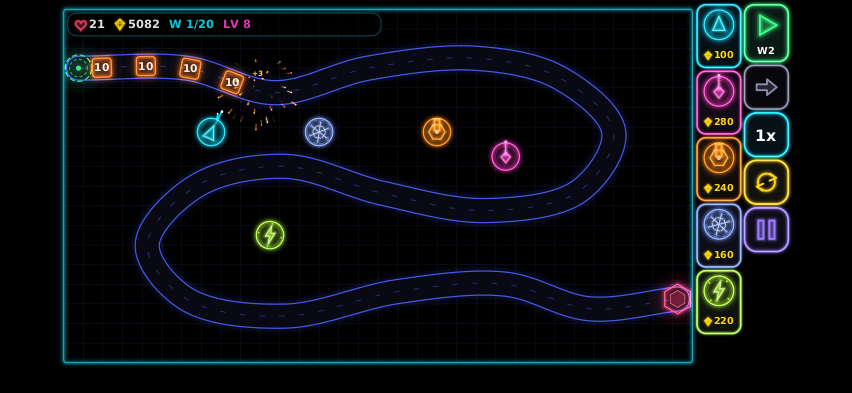
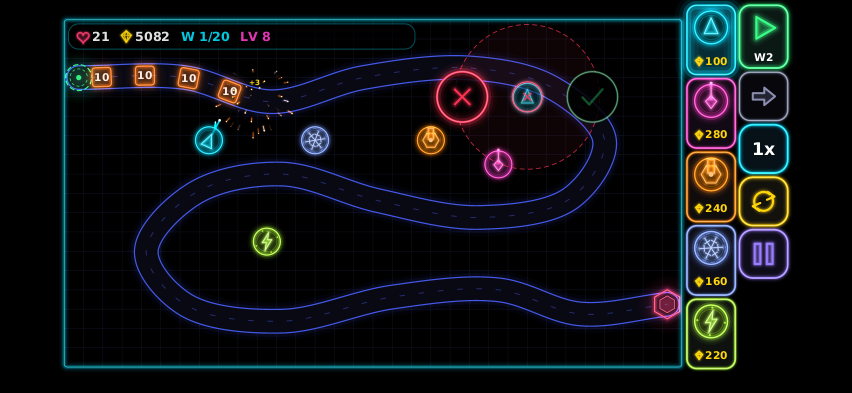
iPhone: Turm schwebt bis zur Bestätigung, Platz unten voll genutzt, Bedienelemente 10 % größer
- Touch: Turm schwebt nach Antippen/Ziehen, Verschieben per Ziehen, Haken baut, Kreuz verwirft
- Viewport: nur ein Drittel des unteren Sicherheitsrands (Home-Indikator) wird freigehalten
- Handy-UI-Einheit 0,78 → 0,86 und kompakte Kacheln 0,95 → 1,05 (je +10 %)
- Tests und Browser-Test an das Bestätigen angepasst, neuer Test touchPlacementFloatsUntilConfirmed

Claude-Session: https://claude.ai/code/session_01KZXZywoB6J5WESCdtRxJgn

Changed region(s): [[0.061, 0.0, 0.946, 0.9466], [0.5493, 0.3359, 0.6103, 0.458], [0.2746, 0.5496, 0.3357, 0.6718]]

diff --git a/core/src/main/java/neontd/scene/GameScene.java b/core/src/main/java/neontd/scene/GameScene.java
@@ -108,6 +108,8 @@ public final class GameScene extends Scene {
     private double dragX0;
     private double dragY0;
     private boolean mapPressed;
+    /** Touch: Der Turm schwebt an seiner Stelle und wird erst mit dem Haken fest gebaut. */
+    private boolean pending;
     private double sellArmed;
     private double time;
     private double celebrate;
@@ -508,6 +510,7 @@ public final class GameScene extends Scene {
     }
 
     private void cancelPlacing() {
+        pending = false;
         placing = null;
         dragging = false;
         cardDown = false;
@@ -779,6 +782,9 @@ public final class GameScene extends Scene {
 
         // Wellen-Banner über der Karte
         drawBanner(g);
+        if (pending && placing != null && ghostOnMap) {
+            drawConfirm(g);
+        }
 
         // --- HUD, Panel, Steuerung ---
         drawHud(g, u);
@@ -807,6 +813,38 @@ public final class GameScene extends Scene {
         }
     }
 
+    private static final double CONFIRM_DX = 62;
+
+    /** Mittelpunkt und Radius der Bestätigungsknöpfe (Bildschirm): {haken x, y, abbruch x, y, radius}. */
+    private double[] confirmButtons() {
+        double k = Math.max(app.vp.u, 1.05);
+        double r = 24 * k;
+        double sx = lay.screenX(ghostX, ghostY, world.height);
+        double sy = lay.screenY(ghostX, ghostY);
+        double dx = CONFIRM_DX * k;
+        double minX = lay.mapX + r;
+        double maxX = lay.mapX + lay.mapW - r;
+        double okX = Mathx.clamp(sx + dx, minX, maxX);
+        double noX = Mathx.clamp(sx - dx, minX, maxX);
+        if (okX - noX < r * 2.2) {
+            okX = Math.min(maxX, noX + r * 2.2);
+        }
+        double y = Mathx.clamp(sy, lay.mapY + r, lay.mapY + lay.mapH - r);
+        return new double[] {okX, y, noX, y, r};
+    }
+
+    private void drawConfirm(Gfx g) {
+        double[] c = confirmButtons();
+        double r = c[4];
+        int ok = ghostValid ? Theme.GREEN : Colors.withAlpha(Theme.GREEN, 0.3);
+        g.fillCircle(c[0], c[1], r, Colors.withAlpha(0x000000, 0.85));
+        Neon.circle(g, c[0], c[1], r, 2.2, ok, ghostValid ? 7 : 0);
+        Icons.draw(g, Icon.CHECK, c[0], c[1], r * 0.5, ok, ghostValid ? 4 : 0);
+        g.fillCircle(c[2], c[3], r, Colors.withAlpha(0x000000, 0.85));
+        Neon.circle(g, c[2], c[3], r, 2.2, Theme.RED, 7);
+        Icons.draw(g, Icon.CROSS, c[2], c[3], r * 0.45, Theme.RED, 4);
+    }
+
     private void drawGhost(Gfx g) {
         if (placing == null || !ghostOnMap) {
             return;
@@ -816,7 +854,8 @@ public final class GameScene extends Scene {
         g.save();
         g.alpha(ghostValid ? 0.85 : 0.55);
         int tint = ghostValid ? placing.color : Theme.RED;
-        TowerArt.drawIcon(g, placing, ghostX, ghostY, World.TOWER_RADIUS, time);
+        double bob = pending ? Math.sin(time * 4) * 1.6 : 0;
+        TowerArt.drawIcon(g, placing, ghostX, ghostY + bob, World.TOWER_RADIUS * (pending ? 1.06 : 1), time);
         g.restore();
         if (!ghostValid) {
             Neon.circle(g, ghostX, ghostY, World.TOWER_RADIUS + 3 + pulse * 2, 2.2, tint, 6);
@@ -1519,6 +1558,25 @@ public final class GameScene extends Scene {
             overlayUi.pointerDown(x, y);
             return;
         }
+        if (pending && placing != null && ghostOnMap) {
+            double[] c = confirmButtons();
+            if (Mathx.dist(x, y, c[0], c[1]) <= c[4] * 1.15) {
+                if (ghostValid) {
+                    placeTower(placing, ghostX, ghostY);
+                    placing = null;
+                    pending = false;
+                    ghostOnMap = false;
+                } else {
+                    deny(world.checkPlacement(ghostX, ghostY) == World.PlaceCheck.ON_PATH
+                            ? "Nicht auf der Gegnerspur" : "Hier kann nicht gebaut werden");
+                }
+                return;
+            }
+            if (Mathx.dist(x, y, c[2], c[3]) <= c[4] * 1.15) {
+                cancelPlacing();
+                return;
+            }
+        }
         if (selected != null) {
             for (Button b : panelButtons()) {
                 if (b.contains(x, y)) {
@@ -1546,7 +1604,8 @@ public final class GameScene extends Scene {
             double wx = toWorldX(x, y);
             double wy = toWorldY(x, y);
             if (placing != null) {
-                updateGhost(x, y, 0);
+                pending = false;
+                updateGhost(x, y, touch ? 56 * app.vp.u : 0);
                 return;
             }
             Tower hit = world.towerAt(wx, wy, 18 / lay.mapScale);
@@ -1611,7 +1670,11 @@ public final class GameScene extends Scene {
             return;
         }
         if (placing != null) {
-            updateGhost(x, y, 0);
+            if (touch && pressed && mapPressed) {
+                updateGhost(x, y, 56 * u);
+            } else if (!touch) {
+                updateGhost(x, y, 0);
+            }
         } else if (!touch && !pressed) {
             hoverTower = onMap(x, y) ? world.towerAt(toWorldX(x, y), toWorldY(x, y), 6) : null;
         }
@@ -1644,13 +1707,21 @@ public final class GameScene extends Scene {
                 dragging = false;
                 double offset = touch ? 56 * app.vp.u : 0;
                 updateGhost(x, y, offset);
-                if (ghostOnMap && ghostValid) {
+                if (touch && ghostOnMap) {
+                    // Finger weg: Der Turm schwebt weiter und wartet auf den Haken (verschieben geht per Ziehen auf der Karte).
+                    pending = true;
+                    showToast("Verschieben, dann Haken zum Bauen", placing.color);
+                } else if (ghostOnMap && ghostValid) {
                     placeTower(dragType, ghostX, ghostY);
-                } else if (ghostOnMap) {
-                    deny("Hier kann nicht gebaut werden");
+                    placing = null;
+                    ghostOnMap = false;
+                } else {
+                    if (ghostOnMap) {
+                        deny("Hier kann nicht gebaut werden");
+                    }
+                    placing = null;
+                    ghostOnMap = false;
                 }
-                placing = null;
-                ghostOnMap = false;
             } else {
                 // Antippen: Platzierungsmodus ein-/ausschalten
                 if (placing == dragType) {
@@ -1663,7 +1734,9 @@ public final class GameScene extends Scene {
         }
         if (mapPressed) {
             mapPressed = false;
-            if (placing != null && onMap(x, y)) {
+            if (placing != null && touch && ghostOnMap) {
+                pending = true;
+            } else if (placing != null && onMap(x, y)) {
                 updateGhost(x, y, 0);
                 if (ghostValid) {
                     placeTower(placing, ghostX, ghostY);
@@ -1805,7 +1878,7 @@ public final class GameScene extends Scene {
     /**
      * Bildschirmposition eines Bedienelements – für Screenshot-Werkzeug und Tests. Namen: {@code tile0..tile4},
      * {@code start}, {@code toggle}, {@code speed}, {@code auto}, {@code pause}, {@code track0..track2}, {@code sell},
-     * {@code mode}, {@code ov0..ov2} (Schaltflächen der Einblendung), {@code world:x,y} (Weltkoordinaten). @return {x, y} oder {@code null}
+     * {@code mode}, {@code confirm}/{@code cancel} (schwebender Turm), {@code ov0..ov2} (Schaltflächen der Einblendung), {@code world:x,y} (Weltkoordinaten). @return {x, y} oder {@code null}
      */
     public double[] anchor(String name) {
         Button b = null;
@@ -1813,6 +1886,12 @@ public final class GameScene extends Scene {
             b = cards[name.charAt(4) - '0'];
         } else if (name.startsWith("track")) {
             b = trackBtns[name.charAt(5) - '0'];
+        } else if (name.equals("confirm") || name.equals("cancel")) {
+            if (!pending || placing == null || !ghostOnMap) {
+                return null;
+            }
+            double[] c = confirmButtons();
+            return name.equals("confirm") ? new double[] {c[0], c[1]} : new double[] {c[2], c[3]};
         } else if (name.startsWith("ov")) {
             int i = name.charAt(2) - '0';
             b = i < overlayUi.buttons.size() ? overlayUi.buttons.get(i) : null;

diff --git a/core/src/test/java/neontd/scene/GameFlowTest.java b/core/src/test/java/neontd/scene/GameFlowTest.java
@@ -53,6 +53,16 @@ class GameFlowTest {
         double[] from = gs.anchor("tile" + tile);
         double[] to = gs.anchor("world:" + wx + "," + wy);
         h.drag(from[0], from[1], to[0], to[1] + (h.touch ? 56 * h.app.vp.u : 0));
+        confirmIfFloating(h, gs);
+    }
+
+    /** Auf dem Finger-Gerät schwebt der Turm nach dem Loslassen und wird mit dem Haken fest gebaut. */
+    static void confirmIfFloating(Harness h, GameScene gs) {
+        double[] ok = gs.anchor("confirm");
+        if (h.touch) {
+            assertNotNull(ok, "Turm schwebt nach dem Loslassen");
+            h.tap(ok);
+        }
     }
 
     @Test
@@ -82,6 +92,34 @@ class GameFlowTest {
         double[] spot3 = validSpot(w, 300, 300);
         dragTile(h, gs, 4, spot3[0], spot3[1]);
         assertEquals(2, w.towers.size(), "BLITZ ist erst ab Level 6 frei");
+    }
+
+    @Test
+    void touchPlacementFloatsUntilConfirmed() {
+        Harness h = new Harness(393, 852, true, 0, 47, 0, 34);
+        GameScene gs = open(h);
+        World w = gs.testWorld();
+        double[] spot = validSpot(w, 400, 250);
+        double[] from = gs.anchor("tile0");
+        double[] to = gs.anchor("world:" + spot[0] + "," + spot[1]);
+        h.drag(from[0], from[1], to[0], to[1] + 56 * h.app.vp.u);
+        assertEquals(0, w.towers.size(), "nach dem Loslassen noch nicht gebaut");
+        // Verschieben: erneut auf die Karte ziehen
+        double[] spot2 = validSpot(w, 800, 400);
+        double[] to2 = gs.anchor("world:" + spot2[0] + "," + spot2[1]);
+        h.drag(to2[0], to2[1] + 56 * h.app.vp.u, to2[0], to2[1] + 56 * h.app.vp.u);
+        assertEquals(0, w.towers.size());
+        h.tap(gs.anchor("confirm"));
+        assertEquals(1, w.towers.size());
+        assertEquals(spot2[0], w.towers.get(0).x, 1.5);
+        // Antippen der Karte setzt ebenfalls nur die Vorschau; Abbrechen baut nichts
+        h.tap(gs.anchor("tile0"));
+        double[] p3 = gs.anchor("world:" + validSpot(w, 300, 250)[0] + "," + validSpot(w, 300, 250)[1]);
+        h.tap(p3[0], p3[1] + 56 * h.app.vp.u);
+        assertEquals(1, w.towers.size());
+        h.tap(gs.anchor("cancel"));
+        assertEquals(1, w.towers.size());
+        assertNull(gs.anchor("confirm"));
     }
 
     @Test
@@ -257,6 +295,7 @@ class GameFlowTest {
         h.run(1.0);
         assertTrue(lay.open > 0.99);
         h.drag(tile[0], tile[1], to[0], to[1] + 56 * h.app.vp.u);
+        confirmIfFloating(h, gs);
         assertEquals(1, w.towers.size());
         // Neue Szene übernimmt die Wahl
         h.tap(t[0], t[1]);

diff --git a/core/src/main/java/neontd/scene/GameLayout.java b/core/src/main/java/neontd/scene/GameLayout.java
@@ -81,7 +81,7 @@ final class GameLayout {
     double open = 1;
     /** Das Upgrade-Panel ersetzt im kompakten Hochformat die Turmleiste. */
     boolean panelReplacesTiles;
-    /** UI-Größe für Kompaktmodus (nie unter 0,95, damit Tippflächen groß genug bleiben). */
+    /** UI-Größe für Kompaktmodus (nie unter 1,05, damit Tippflächen groß genug bleiben). */
     double k = 1;
 
     GameLayout() {
@@ -209,7 +209,7 @@ final class GameLayout {
     // --------------------------------------------------------------------------------- Handy, Querformat
 
     private void compactLand(Viewport vp, double ww, double wh, boolean selected, double selX, double selY) {
-        k = Math.max(vp.u, 0.95);
+        k = Math.max(vp.u, 1.05);
         double m = 5 * k;
         double tile = 46 * k;
         double gap = 4 * k;
@@ -273,7 +273,7 @@ final class GameLayout {
     // ------------------------------------------------------------------------------------ Handy, Hochformat
 
     private void compactPort(Viewport vp, double ww, double wh, boolean selected) {
-        k = Math.max(vp.u, 0.95);
+        k = Math.max(vp.u, 1.05);
         double m = 5 * k;
         double gap = 4 * k;
         double sx0 = vp.insetL + m;

diff --git a/core/src/main/java/neontd/ui/Viewport.java b/core/src/main/java/neontd/ui/Viewport.java
@@ -13,7 +13,7 @@ public final class Viewport {
     public double insetT;
     public double insetR;
     public double insetB;
-    /** UI-Einheit: 1 = Entwurfsgröße (Fensterhöhe ≈ 560 px). Mindestens 0,78, damit Tippflächen groß genug bleiben. */
+    /** UI-Einheit: 1 = Entwurfsgröße (Fensterhöhe ≈ 560 px). Mindestens 0,86 (Handy: 10 % größer als zuvor), damit Tippflächen groß genug bleiben. */
     public double u = 1;
 
     public void set(double w, double h, double l, double t, double r, double b) {
@@ -22,8 +22,9 @@ public final class Viewport {
         this.insetL = l;
         this.insetT = t;
         this.insetR = r;
-        this.insetB = b;
-        this.u = Mathx.clamp(Math.min(w, h) / 560.0, 0.78, 2.0);
+        // Der Home-Indikator ist nur eine dünne Leiste ganz unten: nur ein Drittel des Randes freihalten, den Rest nutzen.
+        this.insetB = b * 0.3;
+        this.u = Mathx.clamp(Math.min(w, h) / 560.0, 0.86, 2.0);
     }
 
     public double safeX() {

diff --git a/desktop/src/main/java/neontd/desktop/ScreenshotTool.java b/desktop/src/main/java/neontd/desktop/ScreenshotTool.java
@@ -202,6 +202,10 @@ public final class ScreenshotTool {
                     // Auf dem Finger-Gerät schwebt die Vorschau 56 Einheiten über dem Finger (siehe GameScene).
                     double lift = touch ? 56 * app.vp.u : 0;
                     run("drag " + a[0] + " " + a[1] + " " + b[0] + " " + (b[1] + lift) + " " + p[4]);
+                    double[] ok = touch ? gs.anchor("confirm") : null;
+                    if (ok != null) {
+                        run("click " + ok[0] + " " + ok[1]); // schwebenden Turm mit dem Haken fest bauen
+                    }
                     break;
                 }
                 case "wclick": {

diff --git a/core/src/main/java/neontd/scene/EditorScene.java b/core/src/main/java/neontd/scene/EditorScene.java
@@ -309,7 +309,7 @@ public final class EditorScene extends Scene {
     /** Handy: schmale Kacheln statt Seitenpanel; im Hochformat gedrehte Karte. Die Werkzeug-Gruppe klappt ein. */
     private void compactLayout() {
         Viewport vp = app.vp;
-        double k = Math.max(vp.u, 0.95);
+        double k = Math.max(vp.u, 1.05);
         double m = 5 * k;
         double gap = 4 * k;
         double sx0 = vp.insetL + m;

diff --git a/core/src/test/java/neontd/scene/SceneSmokeTest.java b/core/src/test/java/neontd/scene/SceneSmokeTest.java
@@ -188,6 +188,7 @@ class SceneSmokeTest {
         double[] from = gs.anchor("tile0");
         double[] to = gs.anchor("world:" + spot[0] + "," + spot[1]);
         h.drag(from[0], from[1], to[0], to[1] + 56 * h.app.vp.u);
+        h.tap(gs.anchor("confirm"));
         assertEquals(1, gs.testWorld().towers.size());
         double[] start = gs.anchor("start");
         h.tap(start[0], start[1]);

diff --git a/README.md b/README.md
@@ -115,7 +115,7 @@ Das ZIP enthält `bin/neon-td` (bzw. `neon-td.bat` unter Windows); eine Java-Lau
 
 | | Maus / PC | Finger / iPhone |
 |---|---|---|
-| **Turm bauen** | Karte im Shop anklicken, dann auf die Karte klicken – oder vom Shop auf die Karte **ziehen** | Karte antippen und Ziel antippen – oder vom Shop **ziehen** (die Vorschau schwebt über dem Finger) |
+| **Turm bauen** | Karte im Shop anklicken, dann auf die Karte klicken – oder vom Shop auf die Karte **ziehen** | Kachel antippen oder ziehen: Der Turm **schwebt** über dem Finger (leicht oberhalb, damit man ihn sieht). Nach dem Loslassen bleibt er schweben; per Ziehen auf der Karte verschiebst du ihn, mit dem **Haken** wird er fest gebaut, mit dem **Kreuz** verworfen (rot = hier nicht erlaubt) |
 | **Turm verbessern** | Turm anklicken → Panel mit *Reichweite / Schaden / Tempo* | Turm antippen |
 | **Verkaufen** | Im Panel „Verkaufen“ (zweimal bestätigen), 70 % Erstattung | dito |
 | **Zielwahl** | Im Panel: Erster · Letzter · Stärkster · Nächster | dito |
